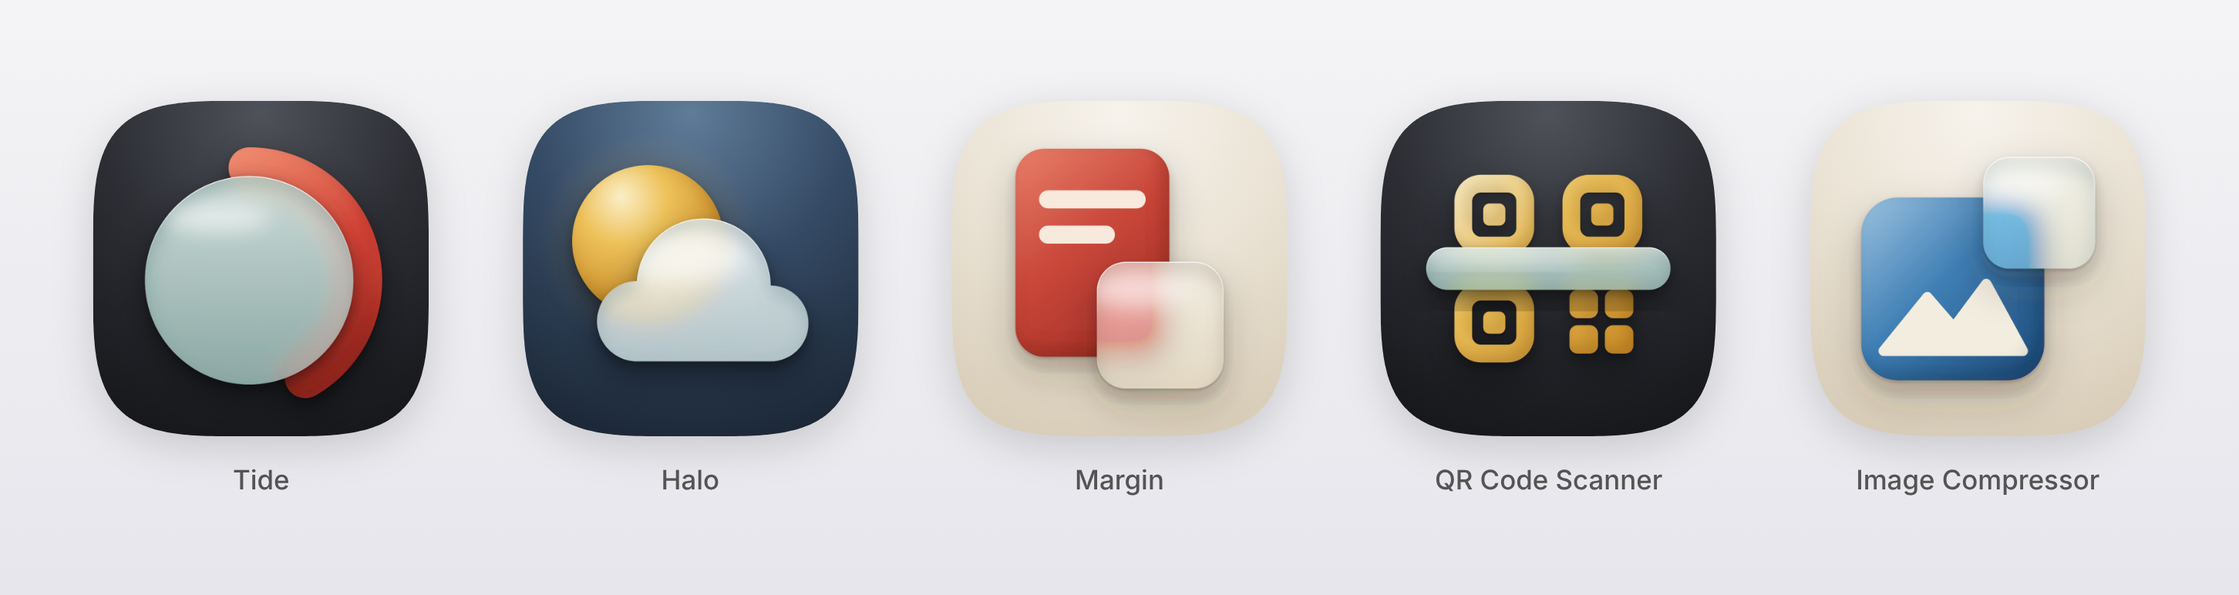
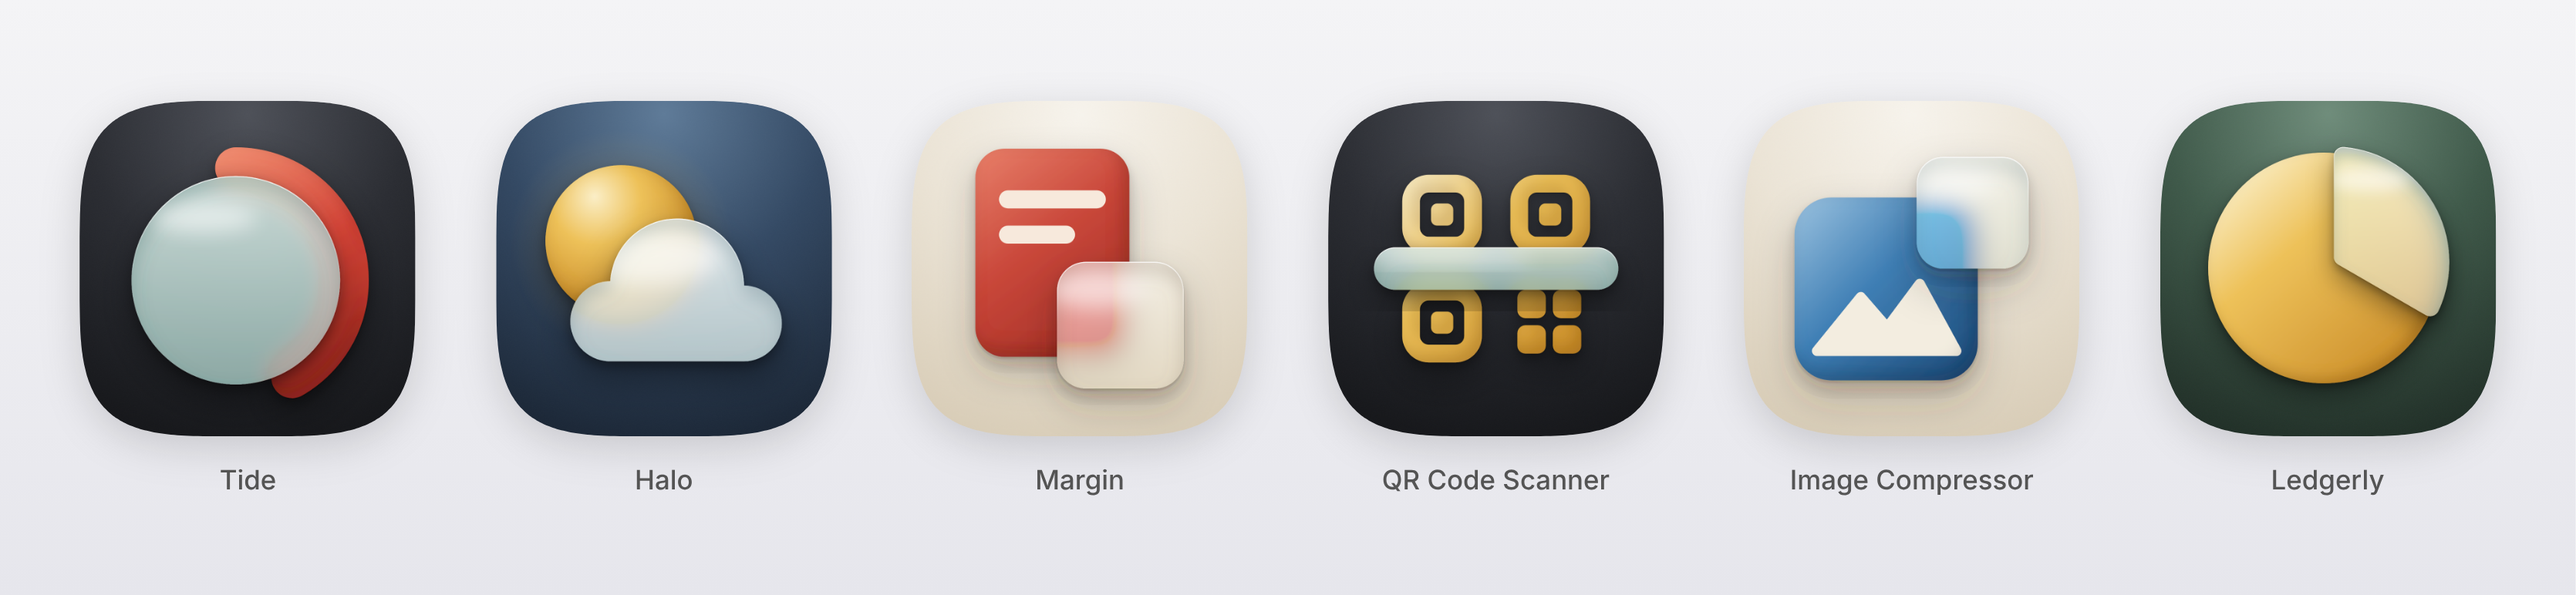
Add Ledgerly example from the blind test
Claude-Session: https://claude.ai/code/session_01Ryqgs4mNU62SDVVXv1wPwj

diff --git a/README.md b/README.md
@@ -13,6 +13,7 @@
 | Margin 笔记 | 宣纸 · 朱砂 · 月白釉 | 红笺，釉面便签 |
 | QR Code Scanner | 墨 · 藤黄 · 天青釉 | 二维码，釉面扫描条 |
 | Image Compressor | 宣纸 · 石青 · 月白釉 | 风景照，右上角一块更小的釉面副本 |
+| Ledgerly 记账 | 苍绿 · 藤黄 · 月白釉 | 饼图，抽出一块釉面切片（由一个只读过 skill 的新 Claude 画出，用来验证 skill） |
 
 ## 安装
 
@@ -44,7 +45,7 @@ references/sources.md       参考来源与致谢
 assets/template.svg         图标模板：只改 TODO 的地方
 scripts/render.py           SVG → 1024 PNG + 对照图（Chromium 渲染）
 scripts/shapes.py           圆角扇形等需要做圆角的釉形状路径
-examples/                   五枚示例和它们的渲染图
+examples/                   六枚示例和它们的渲染图
 ```
 
 ## 许可

diff --git a/SKILL.md b/SKILL.md
@@ -19,7 +19,7 @@ description: Design app icons and logo marks as production SVG in Rian's house s
 
 实色和瓷釉的**重叠处**是图标的视觉焦点，也是这个风格的签名。主体尺寸按 Apple 和 Google 的图标网格，长边约占画布 70%，饱满不空。
 
-`examples/` 里有五枚示例（README 有对照表）。动笔前打开和你的题材最接近的一两枚 SVG，看实色、釉、重叠和釉光是怎么摆的；只借构图思路，不要照抄图形。
+`examples/` 里有六枚示例（README 有对照表）。动笔前打开和你的题材最接近的一两枚 SVG，看实色、釉、重叠和釉光是怎么摆的；只借构图思路，不要照抄图形。
 
 ## 工作流程
 
